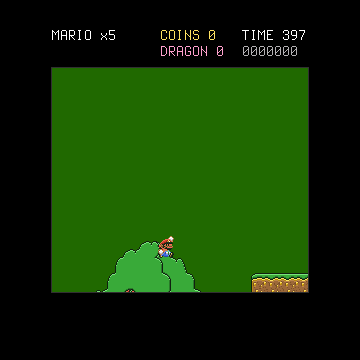
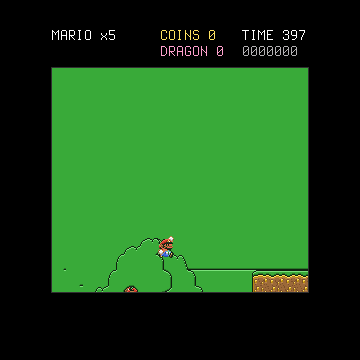
smw: the real background layer, green Koopa and shell
Claude-Session: https://claude.ai/code/session_01819Cst5YoYQmWbqZtMgsvj

diff --git a/scripts/smw_bg2.py b/scripts/smw_bg2.py
@@ -1,0 +1,78 @@
+#!/usr/bin/env python3
+"""Captures the background layer (BG2) of the first level from your own ROM in the emulator.
+
+    python3 scripts/smw_bg2.py ROM.sfc OUTDIR
+
+The layer scrolls at half the camera's speed on x and at the camera's speed on y ($1466, $1468 follow
+$1A, $1C). Playing the level, every screen pixel that shows only the background (no foreground block,
+no sprite, not the status bar, not Mario) is a sample of it at (x + camera x / 2, y + camera y).
+Writes bg2.npy ((H, W, 4) uint8 RGBA, alpha 0 where nothing was seen) and bg2.json (the size, and how
+well the picture repeats with a period of 128, 256 and 512 pixels on x)."""
+import json, os, sys
+sys.path.insert(0, os.path.dirname(os.path.abspath(__file__)))
+import numpy as np
+from smw_capture import *
+
+
+def main():
+    if len(sys.argv) < 3:
+        sys.exit(__doc__)
+    ex = sys.argv[2]
+    level = json.load(open(ex + "/level.json"))
+    empty = np.array([[v == 0x25 for v in row] for row in level])       # Map16 cells with nothing on layer 1
+    H, W = 27 * 16, 2700
+    img = np.zeros((H, W, 4), dtype=np.uint8)
+    votes = np.zeros((H, W), dtype=np.int16)           # Boyer-Moore: a pixel keeps the colour most frames agree on
+    conflicts = 0
+    g = Game(sys.argv[1])
+    g.to_first_level()
+    g.step(n=90)                                        # past the fade-in
+    for f in range(2400):
+        g.poke(0x1497, 0x7F)
+        g.step([RIGHT, Y] + ([B] if f % 40 < 24 else []))
+        w = g.wram()
+        if w[0x100] != 0x14:
+            break
+        cx, cy = w[0x1A] | w[0x1B] << 8, w[0x1C] | w[0x1D] << 8
+        shot = g.e.get_screen()
+        ok = np.zeros((224, 256), dtype=bool)
+        ok[40:] = True                                  # not the status bar
+        mx, my = (w[0x94] | w[0x95] << 8) - cx, (w[0x96] | w[0x97] << 8) - cy
+        ok[max(0, my - 8):max(0, my + 40), max(0, mx - 10):max(0, mx + 28)] = False
+        for i in range(12):                              # a box around each sprite
+            if w[0x14C8 + i]:
+                sx, sy = (w[0xE4 + i] | w[0x14E0 + i] << 8) - cx, (w[0xD8 + i] | w[0x14D4 + i] << 8) - cy
+                ok[max(0, sy - 40):max(0, sy + 48), max(0, sx - 36):max(0, sx + 52)] = False
+        for ty in range(cy // 16, min(27, (cy + 223) // 16 + 1)):          # the layer 1 blocks that are not empty
+            for tx in range(cx // 16, (cx + 255) // 16 + 1):
+                if tx < len(level[0]) and not empty[ty][tx]:
+                    ok[max(0, ty * 16 - cy):max(0, ty * 16 - cy + 16), max(0, tx * 16 - cx):max(0, tx * 16 - cx + 16)] = False
+        ys, xs = np.nonzero(ok)
+        u, v = xs + cx // 2, ys + cy
+        keep = (u < W) & (v < H)
+        ys, xs, u, v = ys[keep], xs[keep], u[keep], v[keep]
+        col = shot[ys, xs]
+        cur = img[v, u]
+        same = np.all(cur[:, :3] == col, axis=1) & (cur[:, 3] > 0)
+        empty_px = cur[:, 3] == 0
+        votes[v[same], u[same]] += 1
+        conflicts += int((~same & ~empty_px).sum())
+        lose = ~same & ~empty_px
+        votes[v[lose], u[lose]] -= 1
+        replace = empty_px | (lose & (votes[v, u] < 0))
+        img[v[replace], u[replace], :3] = col[replace]
+        img[v[replace], u[replace], 3] = 255
+        votes[v[replace], u[replace]] = 0
+    seen = img[..., 3] > 0
+    rep = {}
+    for p in (128, 256, 512):
+        a, b = img[:, :W - p], img[:, p:]
+        both = (a[..., 3] > 0) & (b[..., 3] > 0)
+        rep[p] = float((np.all(a[..., :3] == b[..., :3], axis=2) & both).sum() / max(1, both.sum()))
+    np.save(ex + "/bg2.npy", img)
+    json.dump({"w": W, "h": H, "seen": float(seen.mean()), "conflicts": conflicts, "repeat": rep}, open(ex + "/bg2.json", "w"))
+    print("seen %.2f of the %dx%d, conflicts %d, repeat %s" % (seen.mean(), W, H, conflicts, rep))
+
+
+if __name__ == "__main__":
+    main()

diff --git a/carts/smw/build/build.py b/carts/smw/build/build.py
@@ -9,6 +9,7 @@ flags, joins physics.lua and game.lua into main.lua and calls mkbm.py for the .b
 import json, os, subprocess, sys
 sys.path.insert(0, os.path.dirname(os.path.abspath(__file__)))
 from sprites import pack_zones
+from bg import bg_layer
 ROOT = os.path.dirname(os.path.dirname(os.path.dirname(os.path.dirname(os.path.abspath(__file__)))))
 
 
@@ -71,8 +72,20 @@ def main():
     for name, rows in (("map_main.csv", main_rows), ("map_col.csv", col_rows)):
         open(out + "/" + name, "w").write("\n".join(",".join(map(str, r)) for r in rows) + "\n")
     open(out + "/flags.csv", "w").write("%d=1\n%d=2\n" % (col, col + 1))
+    # the background layer: new cells after the two marker cells, a third map layer "bg"
+    bg_cells, bg_rows, _ = bg_layer(ex, col + 2, len(main_rows[0]))
+    open(out + "/map_bg.csv", "w").write("\n".join(",".join(map(str, r)) for r in bg_rows) + "\n")
+    from PIL import Image
+    tiles = Image.open(ex + "/sheet.png").convert("RGBA")
+    n_total = col + 2 + len(bg_cells)
+    wide = Image.new("RGBA", (tiles.width, max(tiles.height, (n_total + 15) // 16 * 8)), (0, 0, 0, 0))
+    wide.paste(tiles, (0, 0))
+    for i, im in enumerate(bg_cells):
+        n = col + 2 + i
+        wide.paste(im, ((n % 16) * 8, (n // 16) * 8))
+    wide.save(out + "/tiles.png")
     sheet_png = out + "/sheet.png"
-    poses_lua = pack_zones(ex, ex + "/sheet.png", sheet_png, out + "/sprites.txt")
+    poses_lua = pack_zones(ex, out + "/tiles.png", sheet_png, out + "/sprites.txt")
     lua = poses_lua + block_data(defs, level, col) + open(ROOT + "/carts/smw/src/physics.lua").read() + "\n" + open(ROOT + "/carts/smw/src/game.lua").read()
     lua = lua.replace("local backdrop = 0xFF0000", "local backdrop = 0x%06X" % backdrop(ex))
     if os.environ.get("SMW_TRACE"):        # a log line per tick: tick, Mario's x, y, state; for tests/smw/compare.py
@@ -83,7 +96,7 @@ def main():
         lua = lua.replace("local START_X, START_Y = 16, 352", "local START_X, START_Y = " + os.environ["SMW_START"])
     open(out + "/main.lua", "w").write(lua)
     base = [sys.executable, ROOT + "/scripts/mkbm.py", "--lua", out + "/main.lua", "--sheet", sheet_png, "--sprites", out + "/sprites.txt",
-            "--map", out + "/map_main.csv", "--map", "col=" + out + "/map_col.csv", "--flags", out + "/flags.csv",
+            "--map", out + "/map_main.csv", "--map", "col=" + out + "/map_col.csv", "--map", "bg=" + out + "/map_bg.csv", "--flags", out + "/flags.csv",
             "--info", ROOT + "/carts/smw/bm.info", "--targets", "rgb30", "--input", "pad"]
     subprocess.run(base + ["-o", out + "/smw.b16", "--b16"], check=True)
     subprocess.run(base + ["-o", out + "/smw.bme"], check=True)

diff --git a/carts/smw/build/bg.py b/carts/smw/build/bg.py
@@ -1,0 +1,47 @@
+"""The background layer (BG2) of the first level as a map layer of 8x8 cells.
+
+bg_layer() folds the samples of scripts/smw_bg2.py on a period of 512 pixels, fills what the foreground always
+hid (the same row a quarter or half period away, else the pixel above, else the common colour), cuts the
+picture in 8x8 cells and gives the cells the numbers after `first`. It returns the new cells (images, to put in the
+sheet), the map (a list of rows of cell numbers, 64 cells a row, repeated to the width of the level) and the height."""
+import numpy as np
+
+
+def bg_layer(ex, first, width_cells, restyle=None):
+    from PIL import Image
+    img = np.load(ex + "/bg2.npy")
+    H, W, _ = img.shape
+    fold = np.zeros((H, 512, 4), dtype=np.uint8)
+    for u in range(W):                                  # the first sample of each column of the period
+        col, dst = img[:, u], fold[:, u % 512]
+        m = (dst[:, 3] == 0) & (col[:, 3] > 0)
+        dst[m] = col[m]
+    base = (32, 104, 0)
+    for shift in (256, 128, 384):                       # holes: the same row, a part of the period away
+        seen = fold[..., 3] > 0
+        sh = np.roll(fold, shift, axis=1)
+        m = ~seen & (sh[..., 3] > 0)
+        fold[m] = sh[m]
+    rows = np.nonzero((fold[..., 3] > 0).sum(axis=1) > 100)[0]
+    top = rows.min()
+    for y in range(top - 1, -1, -1):                    # above the top of what was seen: the rows below, mirrored
+        fold[y] = fold[min(H - 1, 2 * top - y)]
+    for y in range(H):                                  # what is left: the pixel above, else the common colour
+        for x in np.nonzero(fold[y, :, 3] == 0)[0]:
+            fold[y, x] = fold[y - 1, x] if y and fold[y - 1, x, 3] else (*base, 255)
+    pic = Image.fromarray(fold, "RGBA")
+    if restyle:
+        pic = restyle(pic)
+    pic = pic.convert("RGBA")
+    cells, images, rows_out = {}, [], []
+    for cy in range(H // 8):
+        row = []
+        for cx in range(64):
+            t = pic.crop((cx * 8, cy * 8, cx * 8 + 8, cy * 8 + 8))
+            key = t.tobytes()
+            if key not in cells:
+                cells[key] = first + len(cells)
+                images.append(t)
+            row.append(cells[key])
+        rows_out.append(row * (width_cells // 64 + 1))
+    return images, [r[:width_cells] for r in rows_out], H

diff --git a/scripts/smw_diff.py b/scripts/smw_diff.py
@@ -1,14 +1,14 @@
 #!/usr/bin/env python3
 """Captures the pictures of sprites by taking them out of the screen, from your own ROM in the emulator.
 
-    python3 scripts/smw_diff.py ROM.sfc OUTDIR ID [ID ...] [--frames N]
+    python3 scripts/smw_diff.py ROM.sfc OUTDIR ID [ID ...] [--frames N] [--stop X]
 
 The sprite table and the sprite graphics of the savestate do not always match the picture on the screen
 (graphics that the game sends again every frame). So for each frame where a sprite of number ID is on screen
 it plays two frames twice from the same state: once as it is, once with that sprite's slot cleared. The pixels
 that differ are the sprite, in the exact colours of the screen. Writes to OUTDIR/ID:
     pic_<key>.png, pics.json {key: {ox, oy, w, h, count, file}}, seq.csv (frame, slot, x, y, vx, vy, face, pic)
-ox and oy are from the sprite's x and y. The pictures are the player's own: they stay out of git."""
+ox and oy are from the sprite's x and y. --stop X holds Mario still from x = X (a sprite that he would kill stays alive). The pictures are the player's own: they stay out of git."""
 import csv, hashlib, json, os, sys
 sys.path.insert(0, os.path.dirname(os.path.abspath(__file__)))
 import numpy as np
@@ -25,6 +25,8 @@ def main():
     ids = [int(a, 16) for a in args if a.lower().replace("0x", "").isalnum()]
     frames = int(sys.argv[sys.argv.index("--frames") + 1]) if "--frames" in sys.argv else 2000
     ids = [i for i in ids if i != frames]
+    stop = int(sys.argv[sys.argv.index("--stop") + 1]) if "--stop" in sys.argv else None
+    ids = [i for i in ids if i != stop]
     if len(sys.argv) < 4:
         sys.exit(__doc__)
     g = Game(sys.argv[1])
@@ -34,6 +36,9 @@ def main():
         g.poke(0x1497, 0x7F)
         keys = [RIGHT, Y] + ([B] if f % 40 < 24 else [])
         w = g.wram()
+        if stop is not None and (w[0x94] | w[0x95] << 8) >= stop:       # hold Mario still so that nothing is hurt
+            keys = []
+            g.poke({0x94: stop & 255, 0x95: stop >> 8, 0x96: 0x60, 0x97: 0x01, 0x7B: 0, 0x7D: 0})
         cx0 = w[0x1A] | w[0x1B] << 8
         slots = [(i, w[0x9E + i]) for i in range(12) if w[0x14C8 + i] and w[0x9E + i] in ids]
         slots = [(i, n) for i, n in slots if 0 <= (w[0xE4 + i] | w[0x14E0 + i] << 8) - cx0 < 256]

diff --git a/carts/smw/build/sprites.py b/carts/smw/build/sprites.py
@@ -61,6 +61,11 @@ def pack_zones(ex, tiles_png, out_png, out_txt, restyle=None):
     def dpic(sid, key):
         m = json.load(open(ex + "/diff/%s/pics.json" % sid))[key]
         return Image.open(ex + "/diff/%s/%s" % (sid, m["file"])).convert("RGBA"), m["ox"], m["oy"]
+    # the green Koopa (sprite 00, 16x14 pictures facing left) and the green shell (04); the boxes are the red ones'
+    gbox = ["hurt * 3 6 12 10", "hit * 3 6 12 10"]
+    zones.append(("gkoopa", 24, 16, [dpic("00", "3a695f1f"), dpic("00", "9d04b60e")], (0, 0), gbox))
+    zones.append(("gshell", 24, 16, [dpic("04", "f9acab17")], (0, 0), ["hurt * 3 6 12 10"]))
+    zones.append(("gshell_slide", 24, 16, [dpic("04", "f9acab17")], (0, 0), gbox))
     zones.append(("plant", 24, 40, [(im, ox, oy + 8) for im, ox, oy in (dpic("4F", "4182a38b"), dpic("4F", "3f21bea6"))],
                   (0, -8), ["hit * 5 14 12 16"]))
     zones.append(("flower", 24, 16, [dpic("4E", k) for k in ("75c96d8a", "f4009734", "109bbf7b", "6a4ba8c4")], (0, 0), []))
@@ -129,10 +134,12 @@ def pack_zones(ex, tiles_png, out_png, out_txt, restyle=None):
             seen.add((s["id"], s["x"], s["y"]))
             decor.append("  { %s, %d, %d }," % ('"flower"' if s["id"] == 0x4E else '"tuft"', s["x"], s["y"]))
     plants = [(s["x"], s["y"]) for s in spawns if s["id"] == 0x4F][:1]
+    greens = sorted({(s["x"], s["y"], s["face"], 1 if s["status"] == 9 else 0) for s in spawns if s["id"] in (0, 4)})
     chucks = sorted({(s["x"], s["y"]) for s in spawns if s["id"] == 0x91})
     rows = [r.split(",") for r in open(ex + "/enemies/states.csv").read().splitlines()[1:]]
     path = [int(r[5]) for r in rows if int(r[2]) == 0x4F]               # its y, a tick at a time, going up
-    plant_lua = "local MSGPOS = { %s }\n" % ", ".join(msgpos)
+    plant_lua = "local GKOOPAS = { %s }   -- the green ones: x, y, face, starts as a shell\n" % ", ".join("{ %d, %d, %d, %d }" % g for g in greens)
+    plant_lua += "local MSGPOS = { %s }\n" % ", ".join(msgpos)
     plant_lua += "local CHUCKS = { %s }\n" % ", ".join("{ %d, %d }" % c for c in chucks)
     plant_lua += "local PLANT_AT = { %s }\nlocal PLANT_PATH = { %s }\n" % (
         ", ".join("{ %d, %d }" % p for p in plants), ", ".join(str(y) for y in path))

diff --git a/carts/smw/guide/build.py b/carts/smw/guide/build.py
@@ -132,10 +132,16 @@ def main():
             if k not in defs_new:
                 defs_new[k] = (main_rows[2 * y][2 * x], main_rows[2 * y + 1][2 * x], main_rows[2 * y][2 * x + 1],
                                main_rows[2 * y + 1][2 * x + 1])
-    n_cells = len(cell_list) + 3
+    from bg import bg_layer                   # the background, redrawn like the rest, as a third layer
+    bg_cells, bg_rows, _ = bg_layer(ex, col_n + 2, len(main_rows[0]), restyle=restyle)
+    open(out + "/map_bg.csv", "w").write("\n".join(",".join(map(str, r)) for r in bg_rows) + "\n")
+    n_cells = col_n + 2 + len(bg_cells)
     sh = Image.new("RGBA", (128, ((n_cells + 15) // 16) * 8), (0, 0, 0, 0))
     for i, im in enumerate(cell_list, 1):
         sh.paste(im, ((i % 16) * 8, (i // 16) * 8))
+    for i, im in enumerate(bg_cells):
+        n = col_n + 2 + i
+        sh.paste(im, ((n % 16) * 8, (n // 16) * 8))
     sh.save(out + "/tiles.png")
     for name, rows in (("map_main.csv", main_rows), ("map_col.csv", col_rows)):
         open(out + "/" + name, "w").write("\n".join(",".join(map(str, r)) for r in rows) + "\n")
@@ -145,7 +151,7 @@ def main():
     lua = lua.replace("local backdrop = 0xFF0000", "local backdrop = 0x%06X" % real.backdrop(ex))
     open(out + "/main.lua", "w").write(lua)
     base = [sys.executable, ROOT + "/scripts/mkbm.py", "--lua", out + "/main.lua", "--sheet", out + "/sheet.png", "--sprites", out + "/sprites.txt",
-            "--map", out + "/map_main.csv", "--map", "col=" + out + "/map_col.csv", "--flags", out + "/flags.csv",
+            "--map", out + "/map_main.csv", "--map", "col=" + out + "/map_col.csv", "--map", "bg=" + out + "/map_bg.csv", "--flags", out + "/flags.csv",
             "--info", ROOT + "/carts/smw/bm.info", "--title", "SMW Guide Edition", "--targets", "rgb30", "--input", "pad"]
     subprocess.run(base + ["-o", out + "/guide.b16", "--b16"], check=True)
     subprocess.run(base + ["-o", out + "/guide.bme"], check=True)

diff --git a/docs/progress/smw.md b/docs/progress/smw.md
@@ -29,6 +29,11 @@ the finished cartridge stay on the user's machine and SD card.
   the same state, once with the sprite's slot cleared, and keeps the pixels that differ. Used for the jumping
   plant (4F), the Chargin' Chuck (91), the P switch (3E), the flowers and tufts (4E, 4D), and the message block
   (B9). The sprite table and the graphics of a savestate do not always match the screen (dynamic graphics).
+- `scripts/smw_bg2.py` and `carts/smw/build/bg.py`: the background layer (BG2). It scrolls at half the camera's
+  speed on x and at its speed on y. The script samples every screen pixel that shows only the background and
+  votes per pixel; the build folds it on a period of 512, fills the holes, cuts it in 637 unique 8x8 cells and
+  writes the map layer `bg` (drawn first, `map` with camera x // 2). Some thin dark marks remain where the
+  foreground always hid the picture.
 - `scripts/smw_msgs.py`: bumps each message block and keeps the black box with its text (msg1: the spin jump
   tip; msg2: Yoshi's thanks). The game shows it as zones `msgN_a` and `msgN_b` (128 pixels at most a zone) and
   waits for A, B or Start.
@@ -65,8 +70,6 @@ the finished cartridge stay on the user's machine and SD card.
   For other levels read the "acts like" table from the ROM.
 - Mario poses: small Mario only. Capture big, fire, cape, Yoshi, swim, climb, death, and the
   walk speed steps. The animation rate is one rule (`anim += speed`, a frame per 122).
-- Background layer 2 (parallax forest): the game uses one colour. The TM mirror poke does not
-  hide layers. Read the BG2 tilemap from VRAM or stitch it from frames.
 - Camera: use the SMW scroll rules. Now `x - 108`.
 - Whole-level check (`tests/smw/compare.py`): the same input in the emulator (Mario unhurtable) and in the port
   (`SMW_GOD=1 SMW_TRACE=1`, a log line a tick). The first 700 ticks (to x 1900) stay within 5 pixels (mean 0.6
